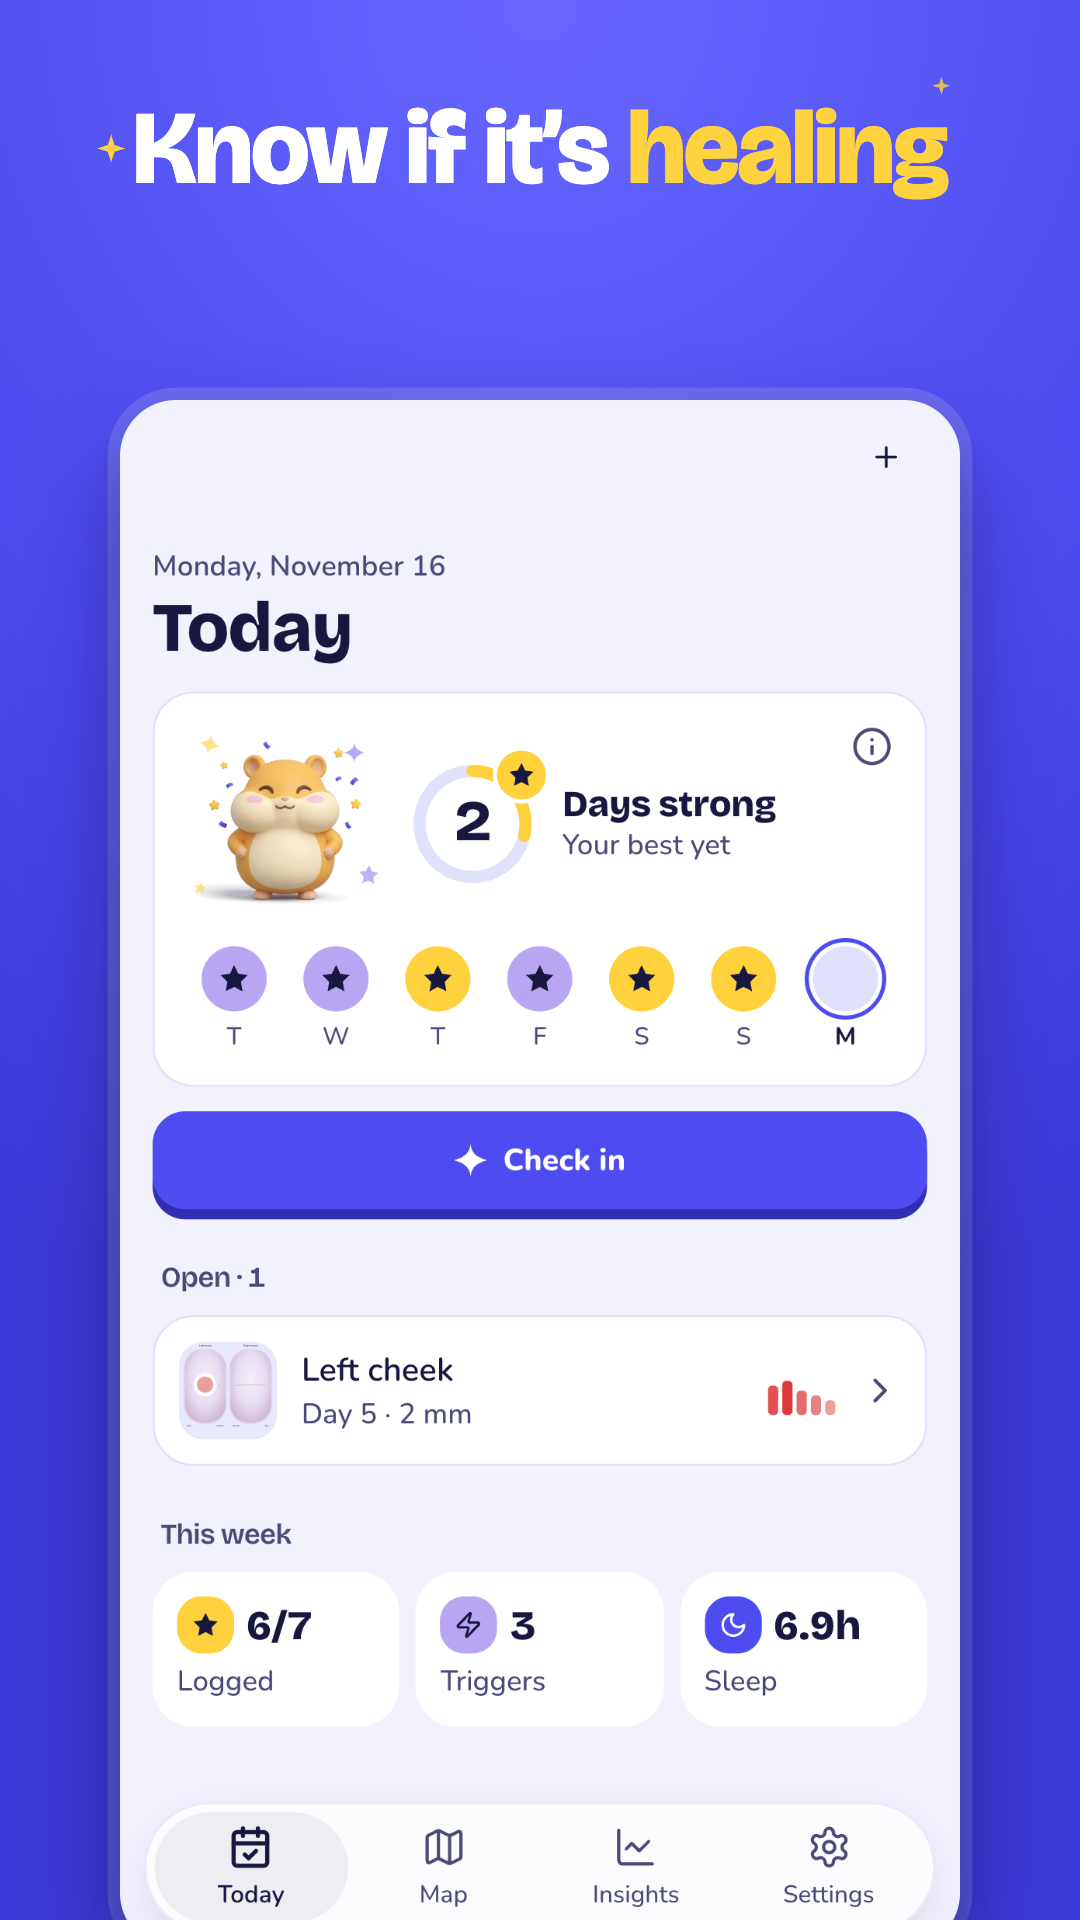
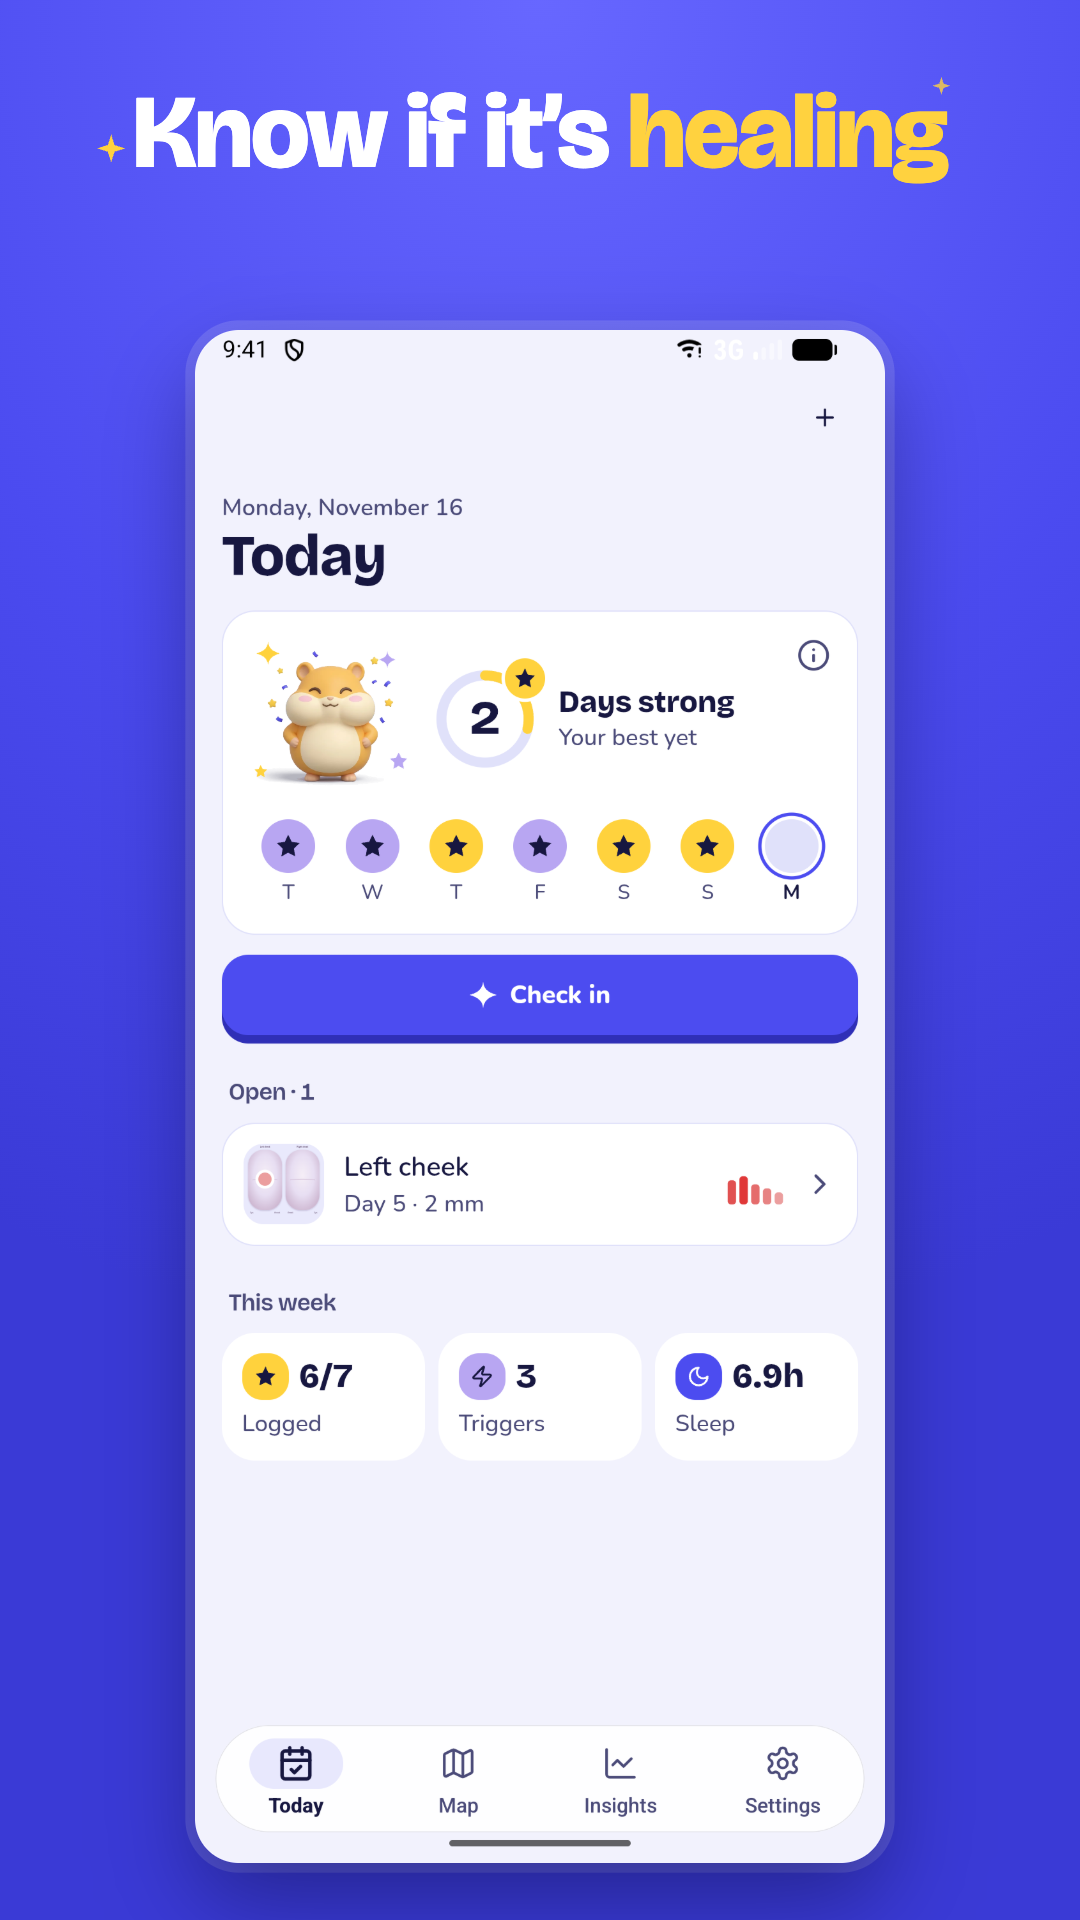
docs(store): Play screenshots from the Android app; build floor 114
The phone and tablet screenshots are now the Android app itself, with its
native Material navigation bar, captured on the emulator against a scratch
backend with the review account's demo history, instead of browser renders
that showed the web tab bar. The frame gains a fit-to-height mode so the
whole screen shows.

1.0 (113) is the AAB built for Play, so minBuildNumber moves to 114 and a
build cut from main at that same commit is refused before it is archived.

Changed region(s): [[0.0917, 0.1562, 0.9167, 1.0], [0.1222, 0.0312, 0.8861, 0.125], [0.6111, 0.6875, 0.7639, 0.75]]

diff --git a/docs/store/play/source/frame.html b/docs/store/play/source/frame.html
@@ -108,7 +108,28 @@
       s.setProperty('--sw', (tablet ? 1260 : 840) + 'px');
       s.setProperty('--r', (tablet ? 48 : 56) + 'px');
       document.getElementById('cap').innerHTML = q.get('cap');
-      document.getElementById('img').src = q.get('img');
+      const img = document.getElementById('img');
+      if (q.get('fit')) {
+        const top = tablet ? 400 : 330,
+          bottom = tablet ? 70 : 56;
+        s.setProperty('--top', top + 'px');
+        s.setProperty('--captop', (tablet ? 100 : 80) + 'px');
+        s.setProperty('--r', (tablet ? 40 : 44) + 'px');
+        img.onload = () => {
+          s.setProperty(
+            '--sw',
+            Math.round(
+              ((h - top - bottom) * img.naturalWidth) / img.naturalHeight
+            ) + 'px'
+          );
+          document.body.dataset.ready = 1;
+        };
+      } else {
+        img.onload = () => {
+          document.body.dataset.ready = 1;
+        };
+      }
+      img.src = q.get('img');
     </script>
   </body>
 </html>

diff --git a/docs/store/play/source/README.md b/docs/store/play/source/README.md
@@ -1,12 +1,17 @@
 # How the Play graphics were made
 
 - `frame.html` frames one app screen under a short caption:
-  `frame.html?w=1080&h=1920&img=<screen png>&cap=Watch it <em>shrink</em>`,
+  `frame.html?fit=1&w=1080&h=1920&img=<screen png>&cap=Watch it <em>shrink</em>`,
   opened in Chrome with the viewport at exactly w x h (device scale 1) and
-  screenshotted. Tablets use w=1600, h=2560.
-- The screens are the signed-in app rendered from a scratch backend (a local
-  Postgres with the demo history in `scripts/seed-review-account.sql`), at
-  412x760 CSS px x2.625 for phones and 800x1280 x2 for tablets.
+  screenshotted. Tablets use w=1600, h=2560. `fit=1` sizes the screen to the
+  height, so a whole phone screen, navigation bar included, shows.
+- The screens are `adb exec-out screencap` from the Android emulator
+  (Medium*Phone_API_37.0, system demo mode for a clean status bar) running a
+  debug build whose `CAPACITOR_SERVER_URL` is a scratch backend: a local
+  Postgres seeded with `scripts/seed-review-account.sql`. Tablet screens are
+  the same emulator with `adb shell wm size 1600x2560` and `wm density 320`.
+  Sign-in and page changes were driven through the debug WebView's DevTools
+  socket (`adb forward tcp:9333 localabstract:webview_devtools_remote*<pid>`).
 - `feature-graphic.html` is the 1024x500 feature graphic; saved through JPEG
   so the PNG has no alpha.
 

diff --git a/docs/store/google-play.md b/docs/store/google-play.md
@@ -66,10 +66,9 @@ Canker Core is a log, not a diagnosis. It has no opinion about treatments and do
 | Phone screenshots                     | `play/phone-*.png`         | 1080x1920 (9:16)                               |
 | 7-inch and 10-inch tablet screenshots | `play/tablet-*.png`        | 1600x2560 (10:16)                              |
 
-The screens in them are the signed-in site rendered at phone and tablet size
-from a scratch backend with demo data (`play/source/README.md`), so they show
-the web tab bar; the Android app draws Material's own bar in its place.
-Recapture from the Android emulator if a reviewer objects.
+The screens are the Android app itself (debug build on the emulator, with
+its native Material navigation bar) signed in to a scratch backend with the
+review account's demo history (`play/source/README.md`).
 
 ## App content (Policy > App content)
 

diff --git a/docs/store/README.md b/docs/store/README.md
@@ -22,7 +22,7 @@ reach the generated projects through `npm run cap:patch` (run by
 - Off main, the build is numbered 1 so it can never pass for a store build.
   To cut a store build from somewhere else, set `NATIVE_BUILD_NUMBER`.
 - `minBuildNumber` refuses anything at or below what the stores already have
-  (1.0 (111) is in App Store Connect).
+  (1.0 (111) is in App Store Connect; 1.0 (113) was built for Play).
 - App Store Connect refuses a build for a version it has already approved,
   so bump `marketingVersion` after each approval. Play only needs the build
   number to rise.
